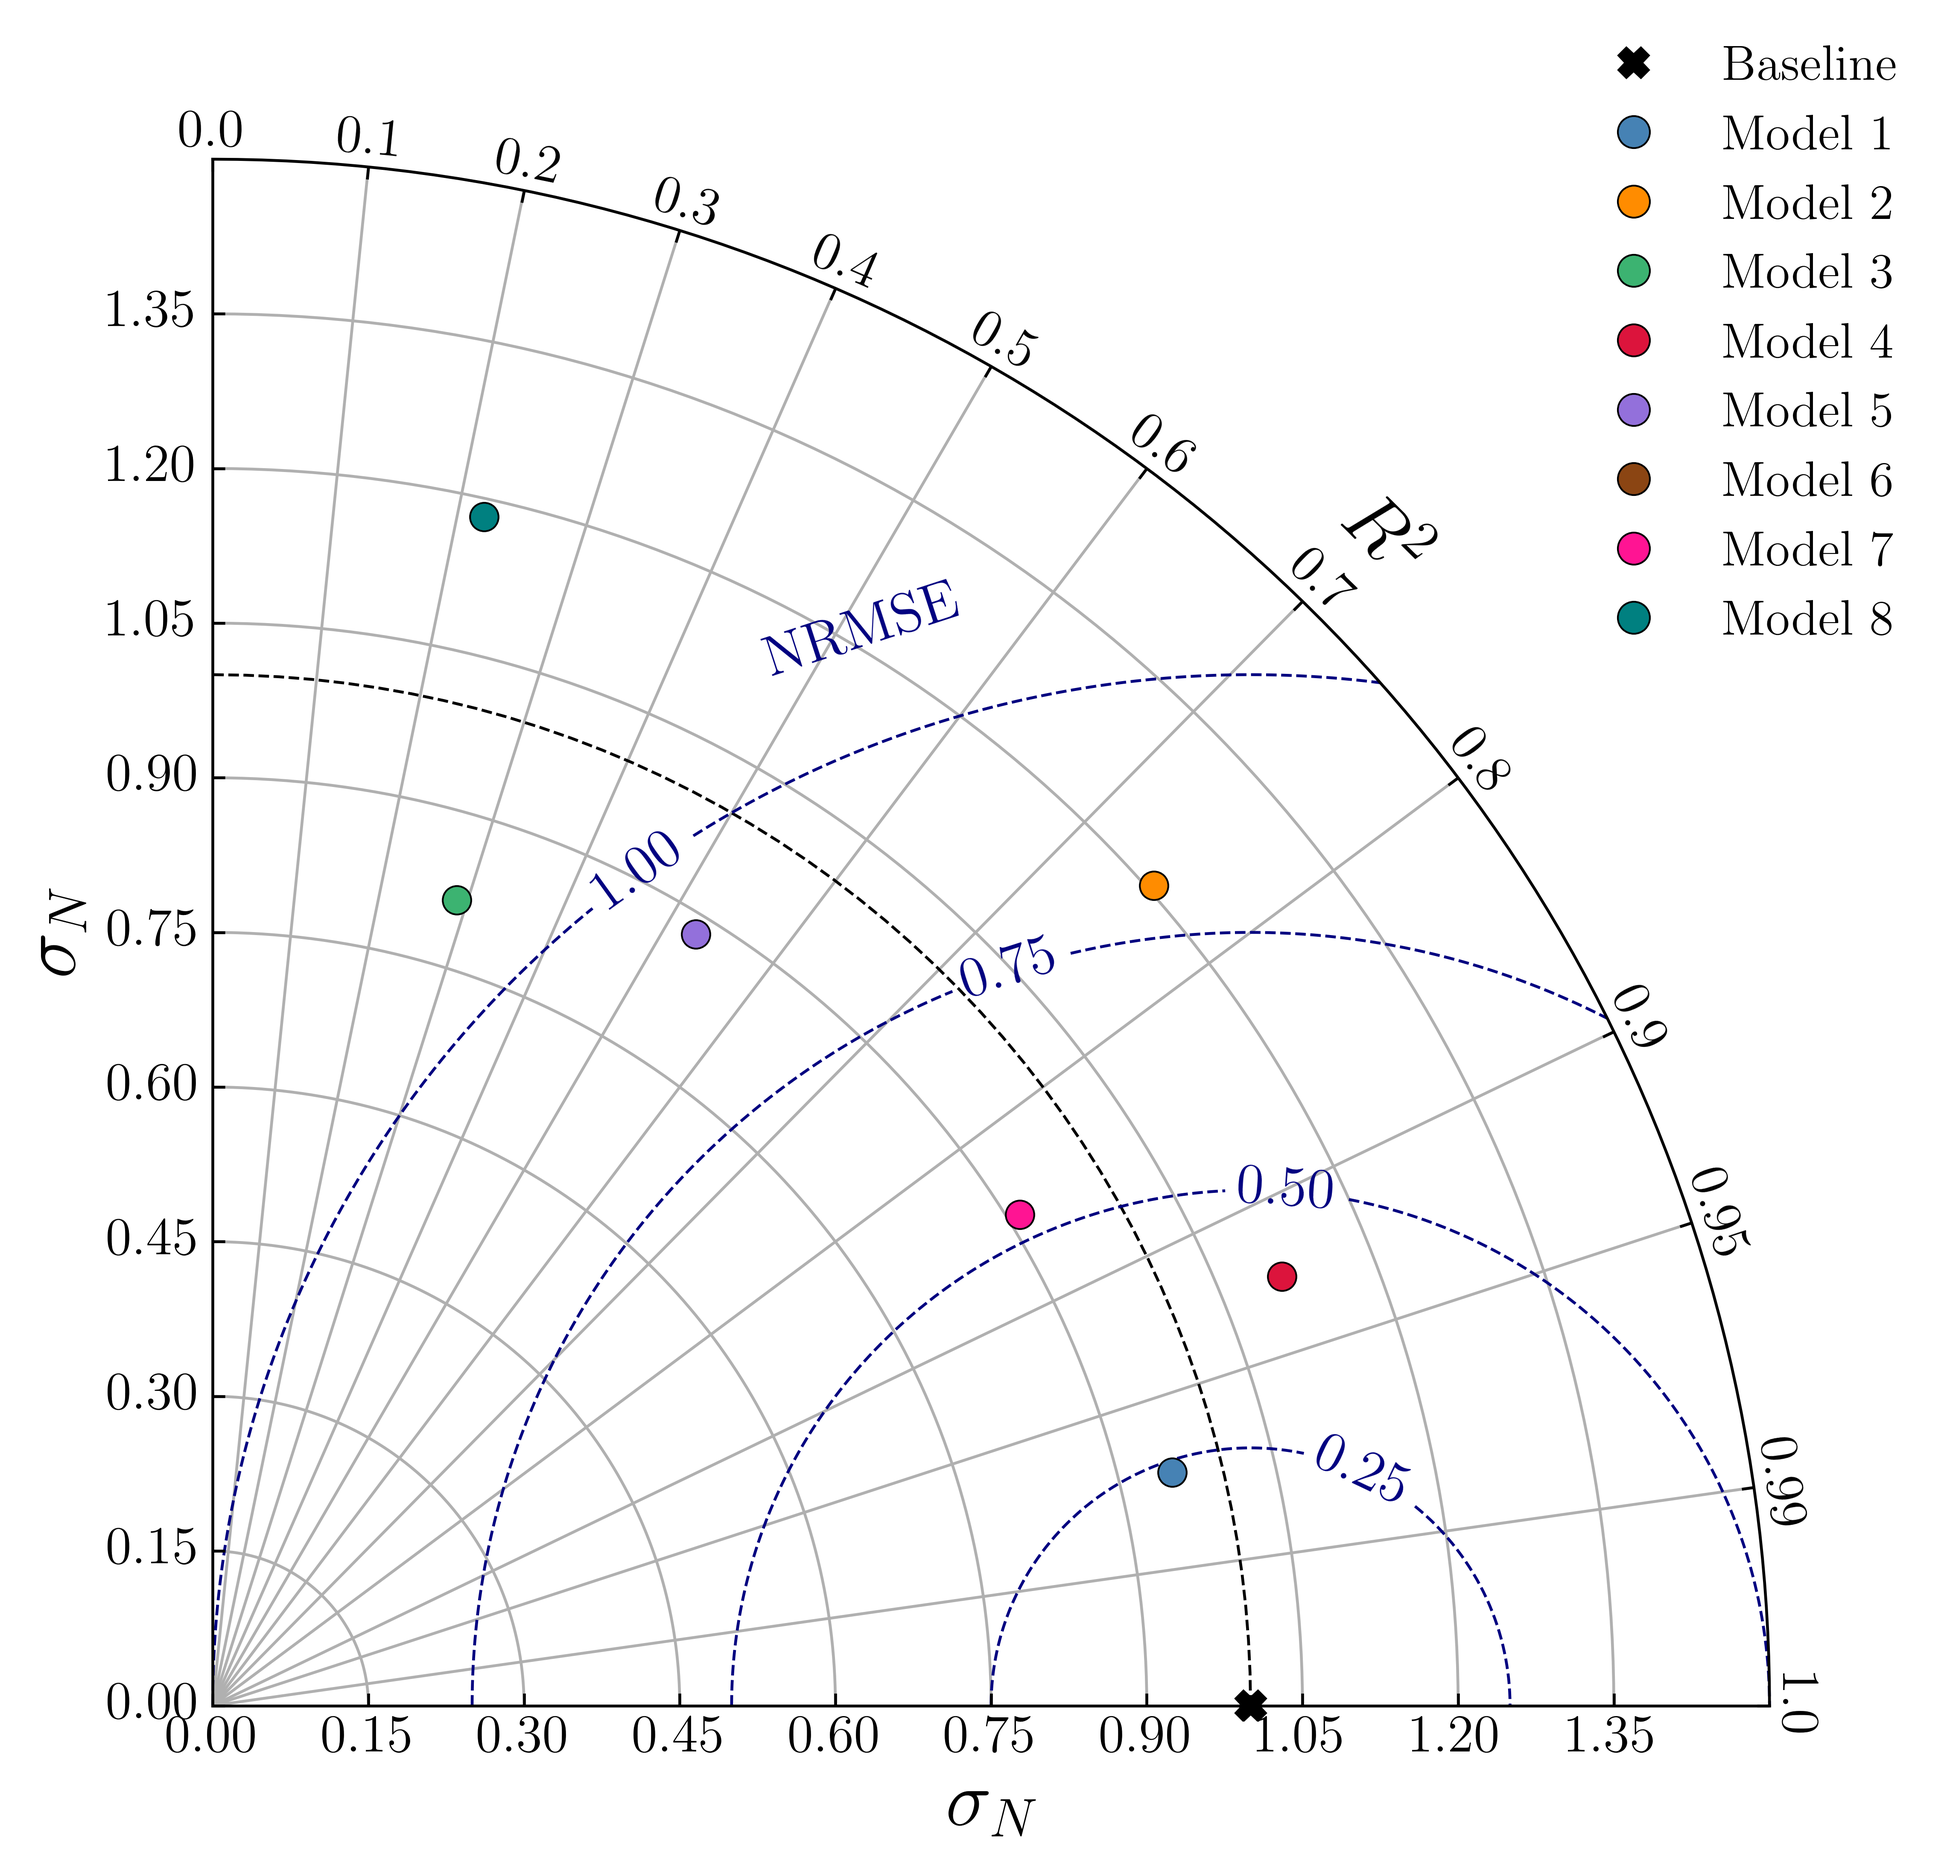
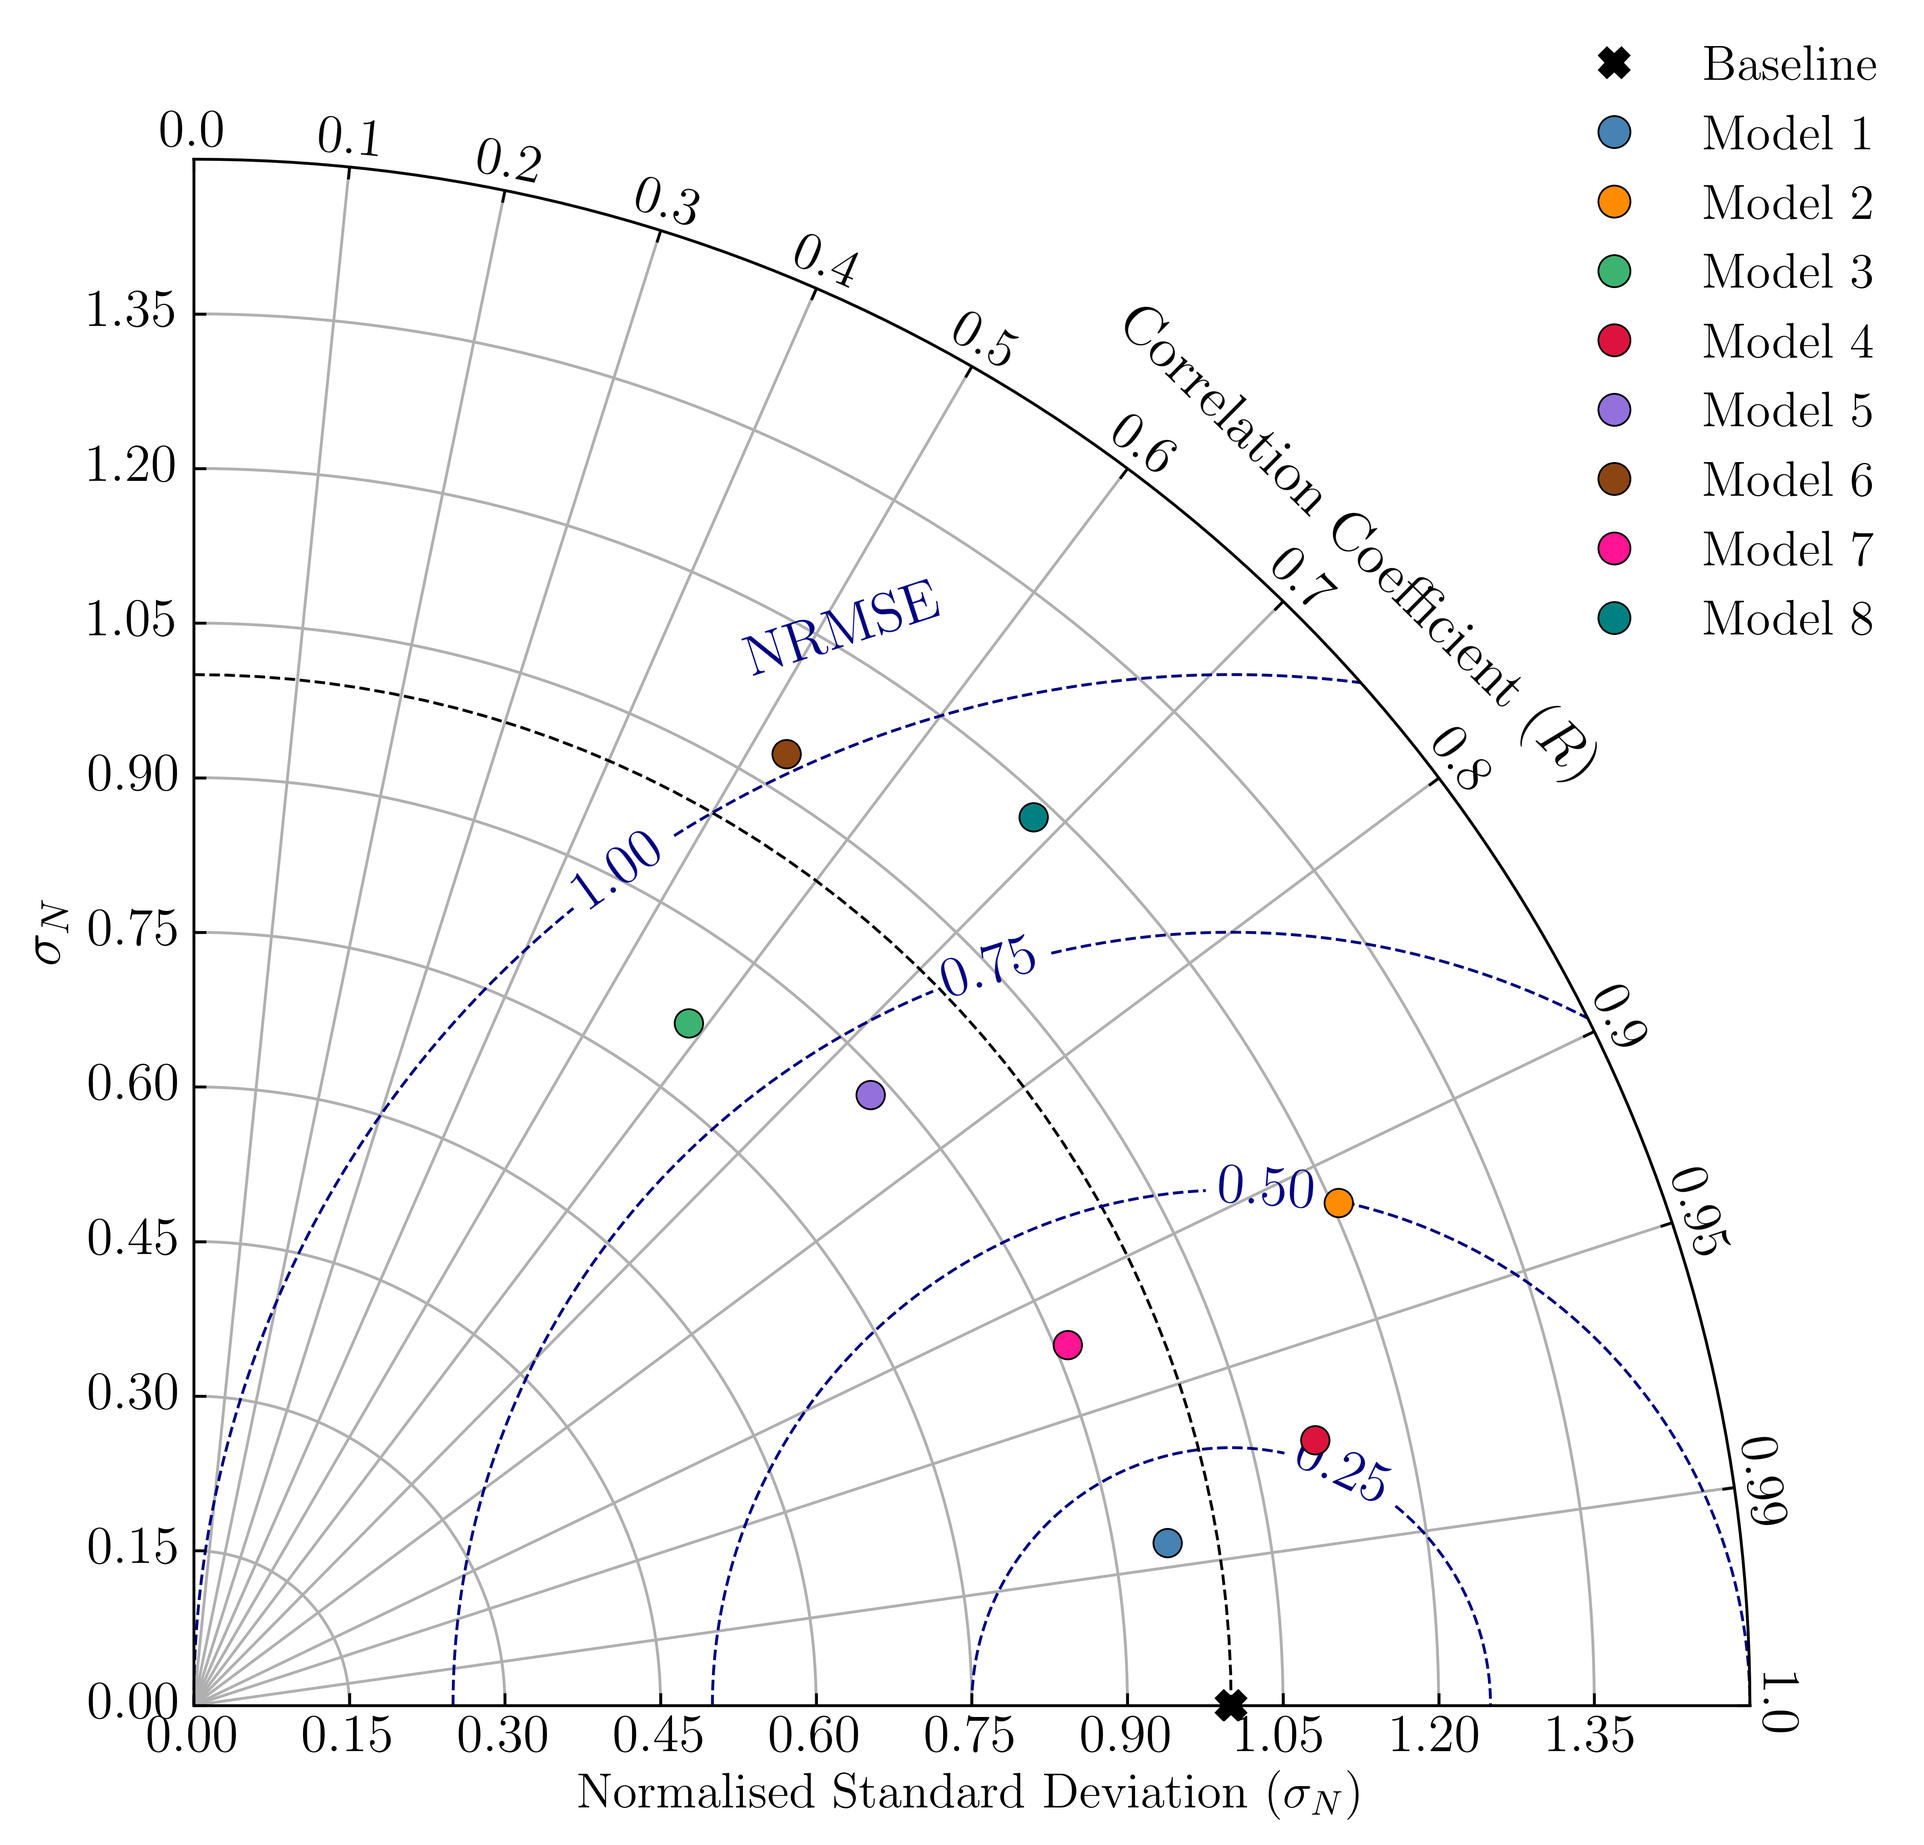
Fix Taylor diagram to use Pearson R on angular axis; improve labels and README
- Plot model points at arccos(R) instead of arccos(R²): the law-of-cosines
  identity NRMSE² = 1 + σ_N² − 2·σ_N·R requires Pearson R as the cosine of
  the angular coordinate; using R² broke the geometric correspondence between
  point positions and NRMSE contours
- Rename axis ticks from R² to R throughout setup_taylor_axes
- Expand axis labels: top arc now reads "Correlation Coefficient (R)", left
  radial axis reads "Normalised Standard Deviation (σ_N)"
- Add full 4-step mathematical derivation to README explaining how cRMSE
  expands into the law of cosines, motivating why R (not R²) is the correct
  angular variable
- Update README features, diagram layout, and intro to reflect R on angular axis
- Regenerate figure with corrected diagram

diff --git a/taylor_diagram_generic.py b/taylor_diagram_generic.py
@@ -8,8 +8,17 @@ and printed as a summary table before plotting.
 
 Taylor diagram axes:
   - Radial   : Normalised Standard Deviation  NSD = σ_model / σ_obs
-  - Angular  : R² coefficient of determination
+  - Angular  : Pearson correlation coefficient  R
   - Contours : Normalised centred RMSE  NRMSE = cRMSE / σ_obs
+
+Derivation:
+  The centred RMSE between model f and observations r expands as:
+    E'² = σ_f² + σ_r² − 2·σ_f·σ_r·R
+  Dividing through by σ_r²:
+    NRMSE² = NSD² + 1 − 2·NSD·R
+  This is the law of cosines with angle θ = arccos(R), so plotting each model
+  at polar coordinates (arccos(R), NSD) makes NRMSE the Euclidean distance
+  from the reference point (θ=0, r=1).
 """
 
 import numpy as np
@@ -80,24 +89,24 @@ def setup_taylor_axes(fig, rect=111, smax=1.5):
     """
     tr = PolarAxes.PolarTransform()
 
-    # R² ticks on the arc
-    r2_ticks = np.concatenate((np.arange(11.0) / 10.0, [0.95, 0.99]))
-    t_ticks  = np.arccos(r2_ticks)
+    # Pearson R ticks on the arc (angular axis = arccos(R))
+    r_ticks = np.concatenate((np.arange(11.0) / 10.0, [0.95, 0.99]))
+    t_ticks = np.arccos(r_ticks)
     gh = fa.GridHelperCurveLinear(
         tr,
         extremes=(0, np.pi / 2, 0, smax),
         grid_locator1=gf.FixedLocator(t_ticks),
-        tick_formatter1=gf.DictFormatter(dict(zip(t_ticks, map(str, r2_ticks)))),
+        tick_formatter1=gf.DictFormatter(dict(zip(t_ticks, map(str, r_ticks)))),
     )
 
     ax = fa.FloatingSubplot(fig, rect, grid_helper=gh)
     fig.add_subplot(ax)
 
-    # Configure the three visible axes: top (R²), left and right (σ_N)
+    # Configure the three visible axes: top (R), left and right (σ_N)
     axis_config = {
-        'top':   dict(axis_dir='bottom', tick_dir='top',   label_dir='top',   text='$R^2$'),
-        'left':  dict(axis_dir='bottom', tick_dir='bottom', label_dir='bottom', text=r'$\sigma_N$'),
-        'right': dict(axis_dir='top',    tick_dir='left',   label_dir='top',   text=r'$\sigma_N$'),
+        'top':   dict(axis_dir='bottom', tick_dir='top',    label_dir='top',    text=r'Correlation Coefficient ($R$)',                  fontsize=16),
+        'left':  dict(axis_dir='bottom', tick_dir='bottom', label_dir='bottom', text=r'Normalised Standard Deviation ($\sigma_N$)',      fontsize=14),
+        'right': dict(axis_dir='top',    tick_dir='left',   label_dir='top',    text=r'$\sigma_N$',                                     fontsize=16),
     }
     for side, cfg in axis_config.items():
         ax.axis[side].set_axis_direction(cfg['axis_dir'])
@@ -105,7 +114,7 @@ def setup_taylor_axes(fig, rect=111, smax=1.5):
         ax.axis[side].major_ticklabels.set_axis_direction(cfg['tick_dir'])
         ax.axis[side].label.set_axis_direction(cfg['label_dir'])
         ax.axis[side].label.set_text(cfg['text'])
-        ax.axis[side].label.set_fontsize(22)
+        ax.axis[side].label.set_fontsize(cfg['fontsize'])
     ax.axis['bottom'].set_visible(False)
     ax.grid()
 
@@ -157,7 +166,7 @@ def plot_taylor(stats, model_defs, output_file=None):
 
     for (nsd, r, r2, nrmse), m in zip(stats, model_defs):
         aux_ax.plot(
-            np.arccos(r2), nsd,
+            np.arccos(r), nsd,
             marker='o', color=m['color'],
             markeredgecolor='black', markeredgewidth=0.5,
             ms=8, zorder=5, ls='',

diff --git a/README.md b/README.md
@@ -1,6 +1,6 @@
 # Taylor Diagram
 
-A generic, self-contained Python implementation of the Taylor diagram, a compact polar plot that summarises how well one or more model outputs reproduce a reference (observed) signal using three statistics simultaneously: the normalised standard deviation ($\sigma_N$), the coefficient of determination ($R^2$), and the normalised centred root-mean-square error (NRMSE).
+A generic, self-contained Python implementation of the normalised Taylor diagram, a compact polar plot that summarises how well one or more model outputs reproduce a reference (observed) signal using three statistics simultaneously: the normalised standard deviation ($\sigma_N$), the Pearson correlation coefficient ($R$), and the normalised centred root-mean-square error (NRMSE).
 
 The Taylor diagram was introduced by Taylor (2001) as a way to condense model evaluation into a single, readable figure. Each model appears as a point on a polar plot: its angular position encodes the correlation with the reference, its radial distance encodes the ratio of model-to-observed variability, and its distance from the reference point encodes the centred RMSE. A model that perfectly reproduces the observations plots exactly on the reference point.
 
@@ -9,6 +9,38 @@ This repository provides a ready-to-run script that generates such a diagram fro
 <div align="center">
   <img src="taylor_diagram.png" width="500"/>
 </div>
+
+---
+
+## Mathematical derivation
+
+The geometry of the Taylor diagram follows directly from the definition of the centred root-mean-square error (cRMSE) and the Pearson correlation coefficient.
+
+**Step 1 — expand the centred RMSE.**  
+For a model signal $f$ and reference signal $r$, both with their means removed, the squared centred RMSE is:
+
+$$E'^2 = \frac{1}{N}\sum_{i=1}^{N}\bigl[(f_i - \bar{f}) - (r_i - \bar{r})\bigr]^2$$
+
+Expanding the square:
+
+$$E'^2 = \sigma_f^2 + \sigma_r^2 - \frac{2}{N}\sum_{i=1}^{N}(f_i - \bar{f})(r_i - \bar{r})$$
+
+**Step 2 — introduce the Pearson correlation coefficient.**  
+By definition, $R = \frac{1}{N\,\sigma_f\,\sigma_r}\sum(f_i-\bar{f})(r_i-\bar{r})$, so:
+
+$$E'^2 = \sigma_f^2 + \sigma_r^2 - 2\,\sigma_f\,\sigma_r\,R$$
+
+**Step 3 — normalise by $\sigma_r$.**  
+Dividing through by $\sigma_r^2$ and defining $\sigma_N = \sigma_f/\sigma_r$:
+
+$$\text{NRMSE}^2 = \sigma_N^2 + 1 - 2\,\sigma_N\,R$$
+
+**Step 4 — recognise the law of cosines.**  
+Setting $\theta = \arccos(R)$, this is identical to the law of cosines for a triangle with sides $\sigma_N$, $1$, and NRMSE:
+
+$$\text{NRMSE}^2 = \sigma_N^2 + 1^2 - 2\,\sigma_N\cdot 1\cdot\cos\theta$$
+
+The consequence is geometric: in polar coordinates $(\theta, r) = (\arccos R,\; \sigma_N)$, the NRMSE is exactly the Euclidean distance from each model point to the **reference point** $(R=1,\; \sigma_N=1)$. Constant-NRMSE contours are therefore circles centred on the reference point.
 
 ---
 
@@ -37,22 +69,12 @@ If you use this code, please cite:
 ## Features
 
 - **Normalised Standard Deviation ($\sigma_N$)** on the radial axis
-- **Coefficient of determination ($R^2$)** on the angular axis
+- **Pearson correlation coefficient ($R$)** on the angular axis
 - **Normalised centred RMSE (NRMSE)** as dashed contours centred on the reference point
-- **Summary statistics table** printed to the terminal before plotting: $\sigma_N$, R, $R^2$, NRMSE for every model
+- **Summary statistics table** printed to the terminal before plotting: $\sigma_N$, $R$, $R^2$, NRMSE for every model
 - **Synthetic test signals**: sinusoids with configurable amplitude, frequency, phase, and noise level
 - Up to **8 labelled model signals** out of the box, trivially extensible
 - Optional **figure export** to PNG (or any matplotlib-supported format)
-
----
-
-## Known simplifications
-
-| What is omitted | Why it matters |
-|---|---|
-| Angular axis uses R² (not R) | The original Taylor (2001) diagram uses R; here R² is used on the arc for readability |
-| Signals are synthetic sinusoids | Real applications would supply observed and modelled time series directly |
-| Only centred RMSE is normalised | Total RMSE includes bias; the centred form used here removes the mean difference |
 
 ---
 
@@ -73,13 +95,13 @@ To save a figure, set `OUTPUT_FILE = 'taylor_diagram.png'` in the CONFIG block b
 ## Diagram layout
 
 ```
-Angular axis (top arc)  ->  R²  (0 = orthogonal, 1 = perfect correlation)
-Radial axis             ->  NSD = σ_model / σ_obs
-Dashed contours         ->  NRMSE = sqrt(1 + NSD² - 2·NSD·R)
-Reference point (X)     ->  (R²=1, NSD=1) — perfect model
+Angular axis (top arc)  ->  R   (0 = uncorrelated, 1 = perfect correlation)
+Radial axis             ->  σ_N = σ_model / σ_obs
+Dashed contours         ->  NRMSE = sqrt(1 + σ_N² - 2·σ_N·R)
+Reference point (X)     ->  (R=1, σ_N=1) — perfect model
 ```
 
-A model that agrees well with observations plots close to the reference point: NSD ≈ 1, R² ≈ 1, NRMSE ≈ 0.
+A model that agrees well with observations plots close to the reference point: $\sigma_N \approx 1$, $R \approx 1$, NRMSE $\approx 0$.
 
 ---
 
